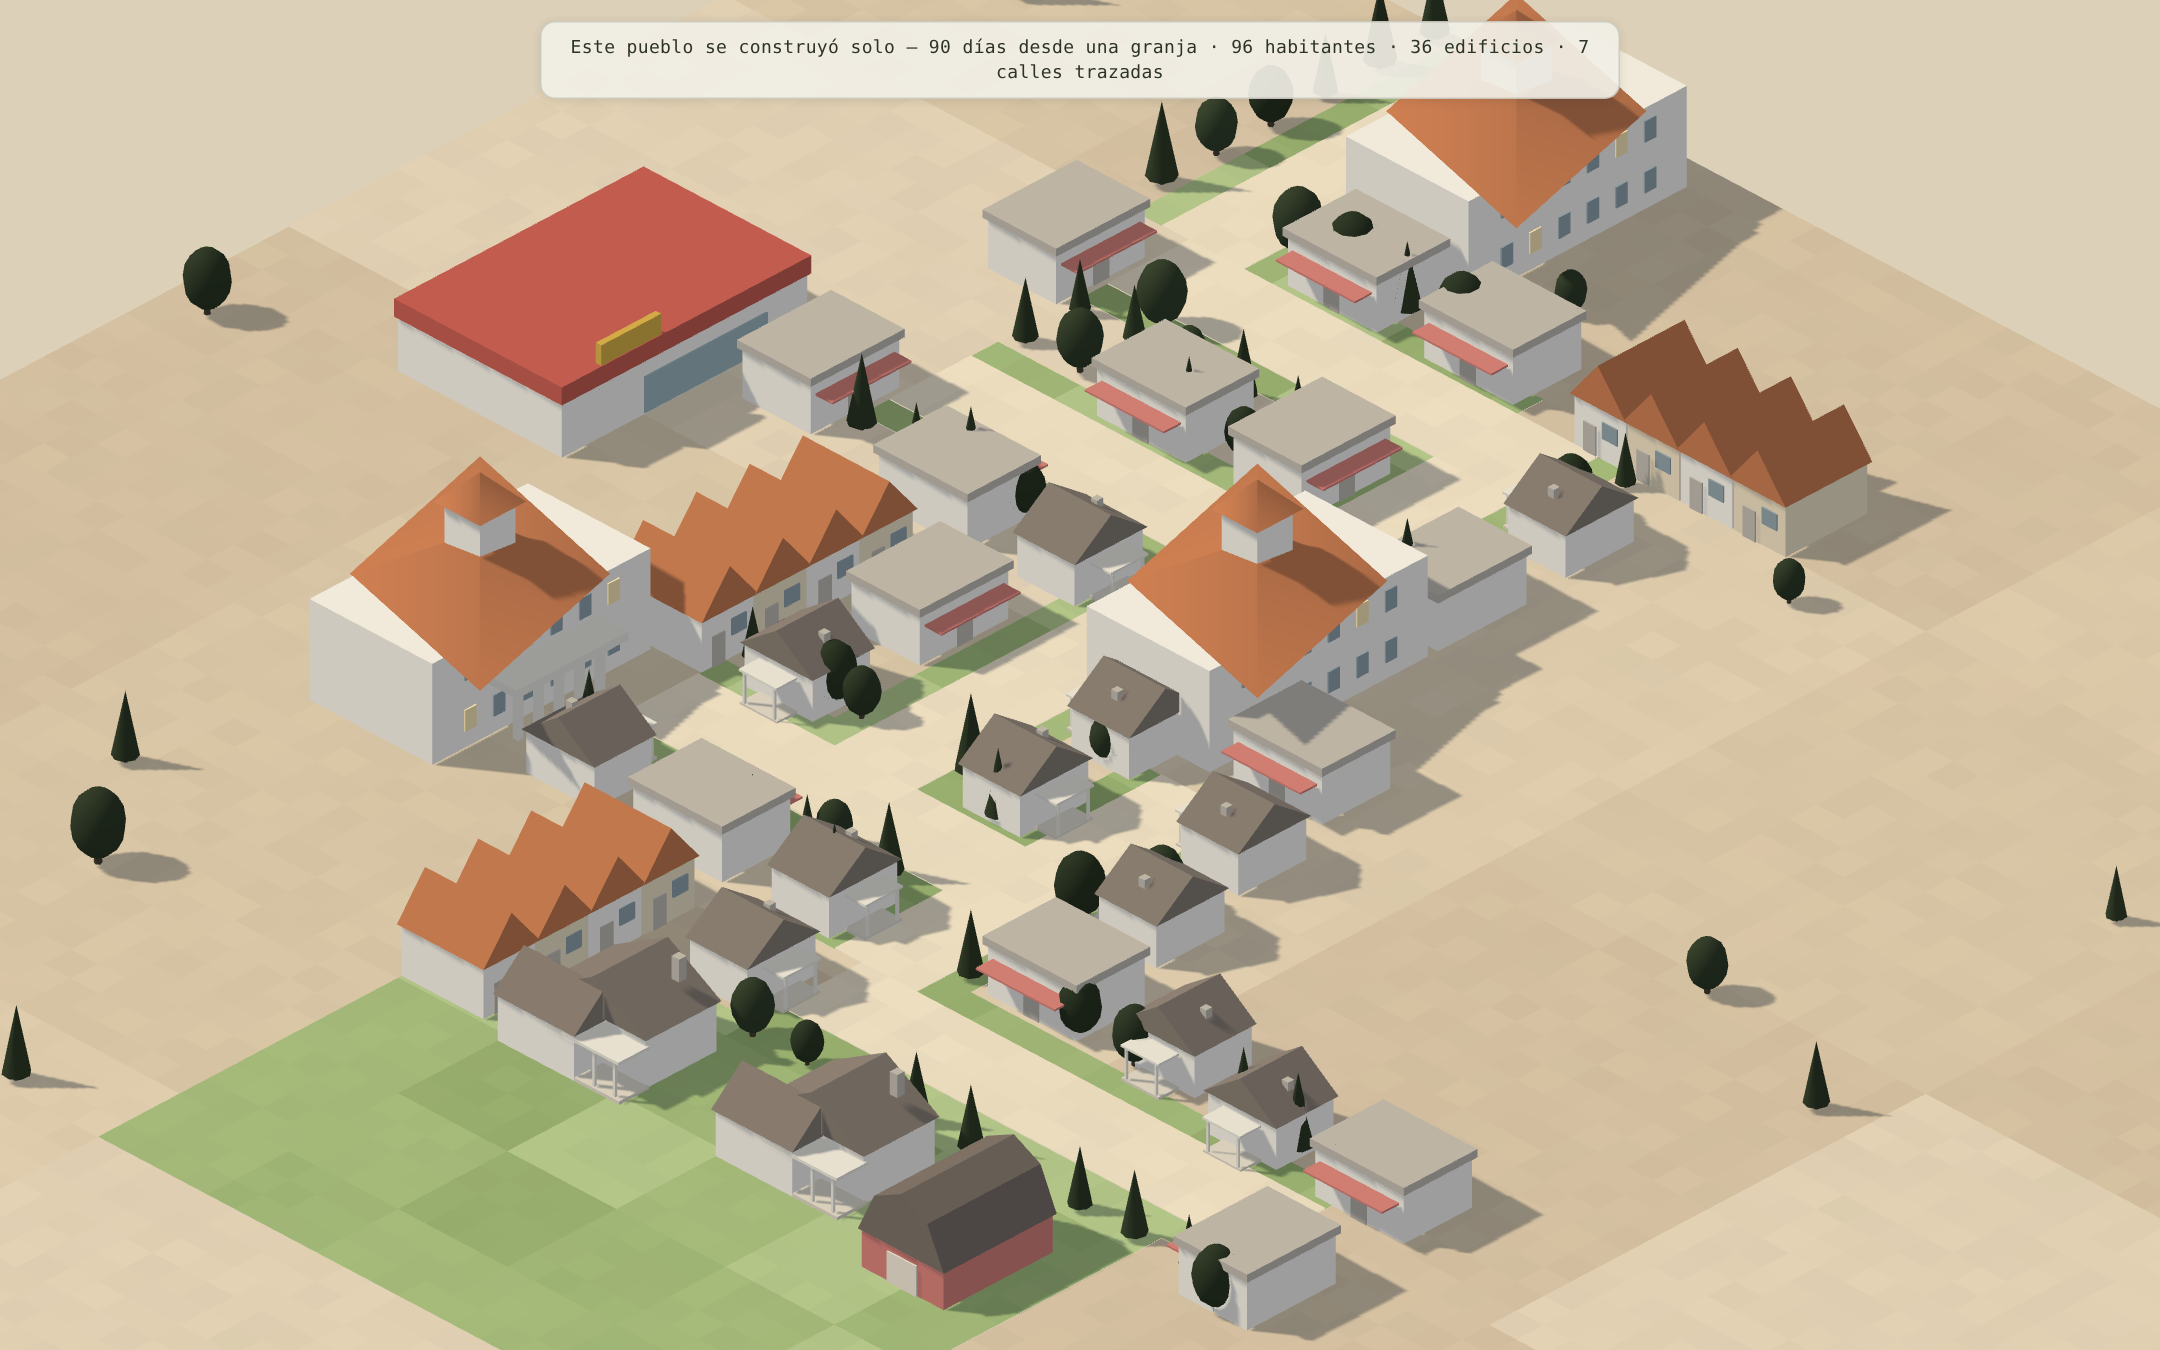
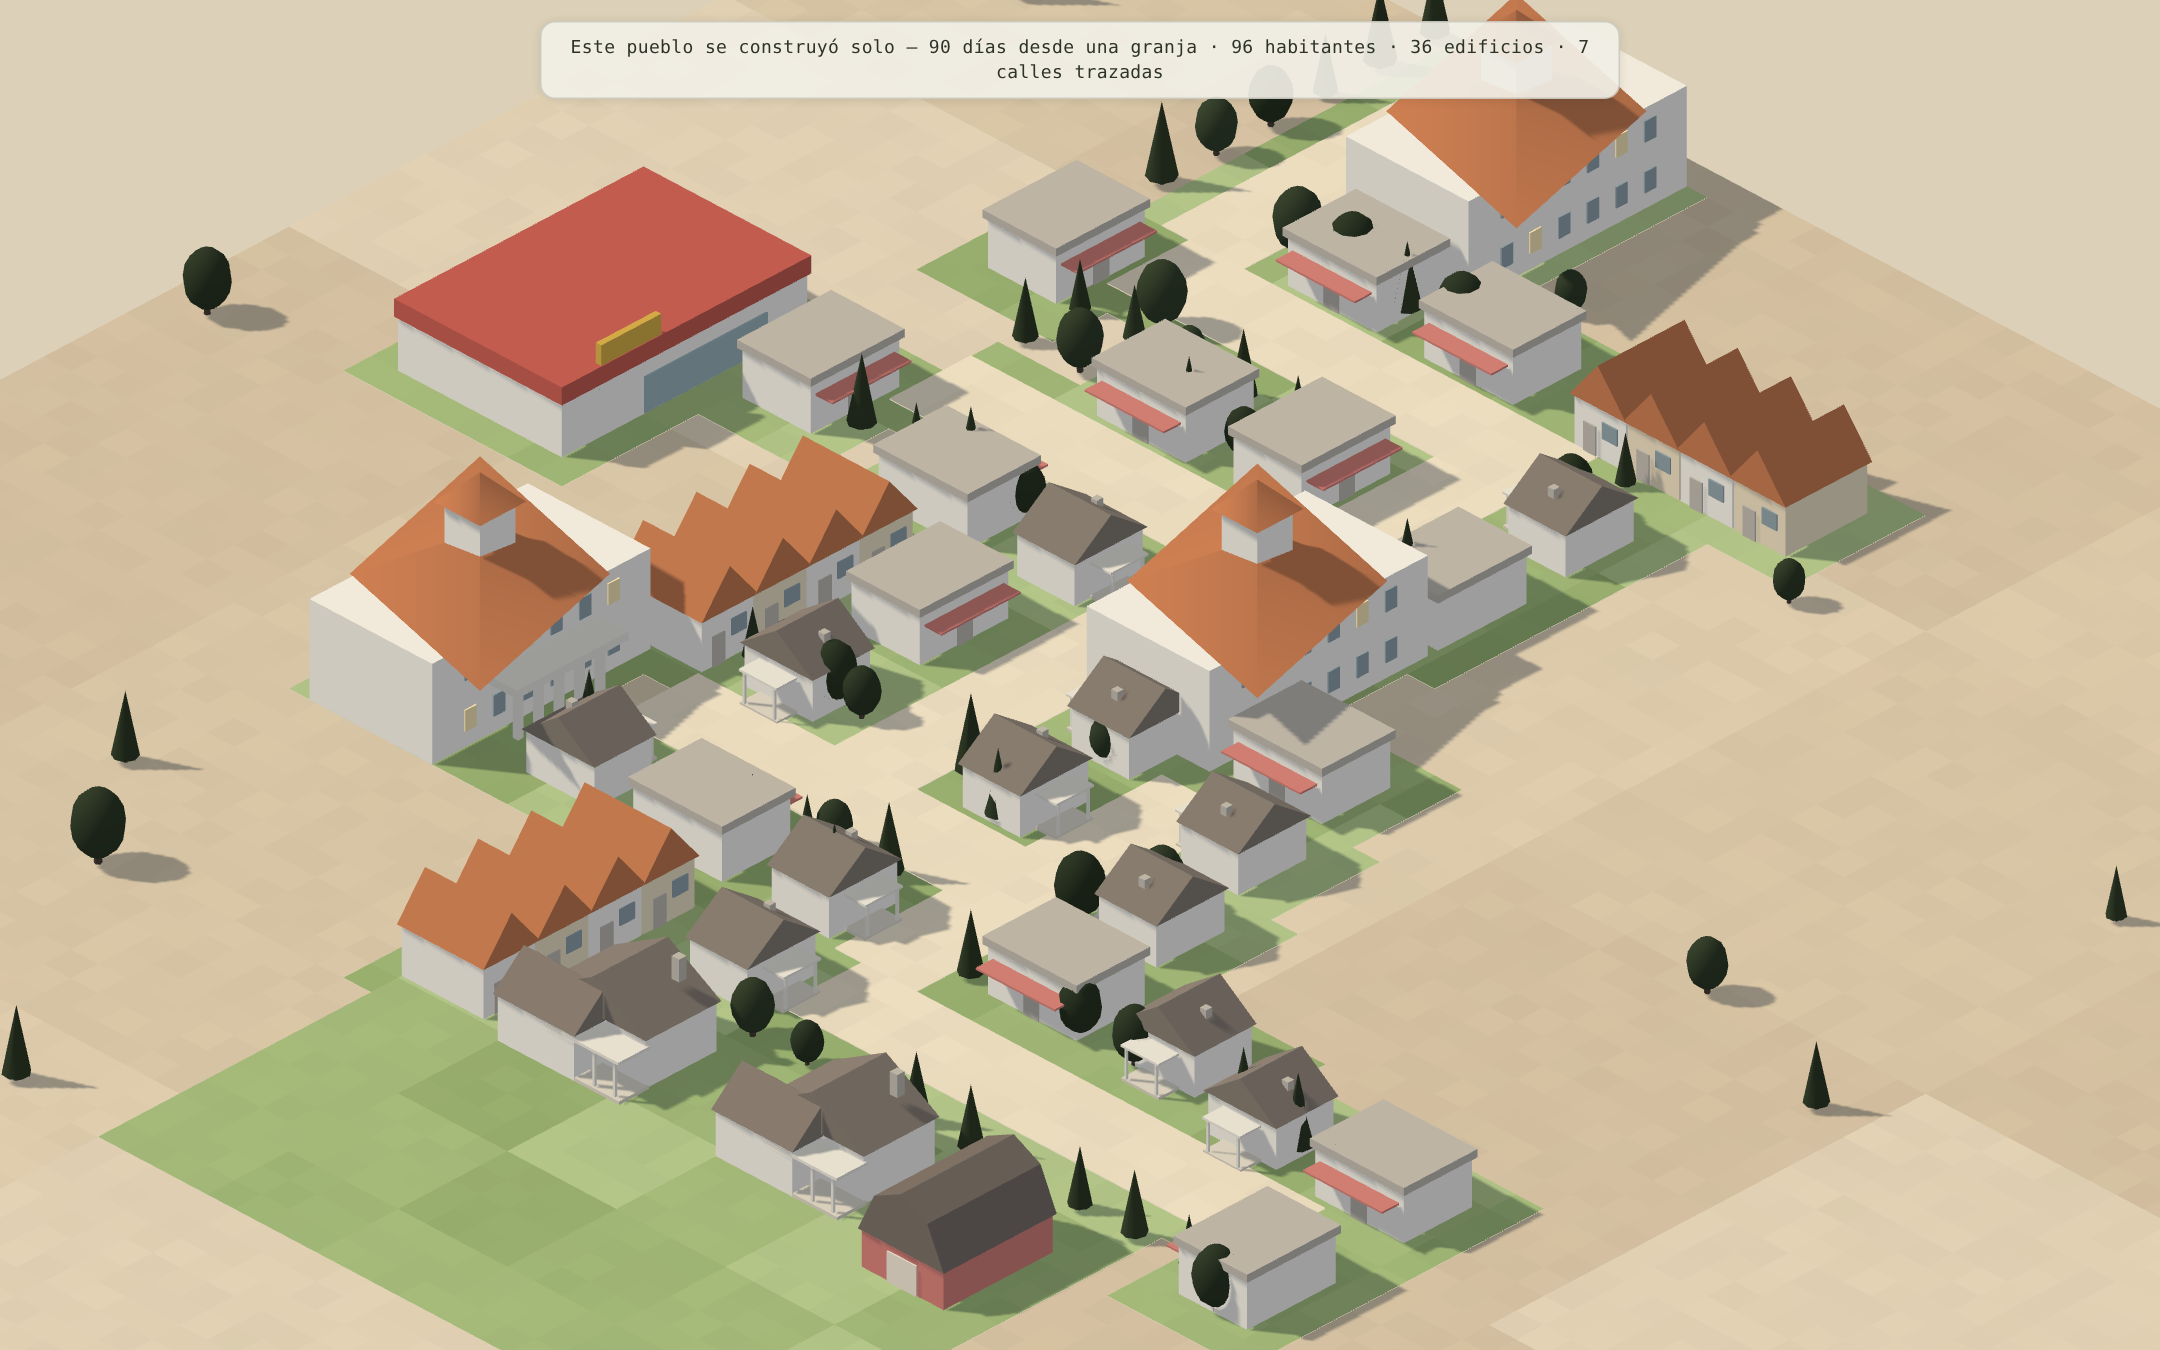
render: jardín de hierba bajo cada edificio del pueblo autónomo (solo visual)
El crecimiento autónomo asentaba los edificios sobre tierra beige (campo),
mientras el pueblo sembrado a mano vive sobre hierba: incoherente y menos
frondoso. Ahora cada edificio nuevo pinta un jardín de hierba bajo su huella
y en un anillo de 1 celda (paintYard en growth.ts) — el pueblo se ve verde y
habitado, coherente con la estética a mano.

CLAVE — el jardín es SOLO VISUAL, no toca el grid de la simulación:
- Pintar hierba en el grid de la sim bajaría el walkCost del terreno (grass 1.6
  vs field 2.4) → desviaría el pathfinding → cambiaría toda la trayectoria de la
  sim (rompía 2 tests de epidemia al filo de percolación).
- Se pinta en el grid de RENDER al hornear la obra (construction.finish) y, en
  la vitrina ?scene=grown, en sim.grid DESPUÉS de terminar la sim (post-hoc,
  cosmético). El grid de la sim del worker se queda sobre 'field': pathfinding
  y trayectoria idénticos.

- docs/hero.png actualizado al pueblo frondoso.
- tsc limpio; 315 tests verdes (grid 33 + sim 282): trayectoria intacta.

Claude-Session: https://claude.ai/code/session_01Evz71rJ6WsWhoXUHHpCnpS

diff --git a/src/world/growth.ts b/src/world/growth.ts
@@ -327,6 +327,39 @@ export function extendRoad(
   return laid;
 }
 
+/**
+ * Pinta un JARDÍN de hierba bajo el edificio y en un anillo de 1 celda alrededor
+ * (el "retranqueo" habitado), para que el pueblo autónomo se asiente sobre verde
+ * como el pueblo sembrado a mano — frondoso y vivido, no plantado sobre tierra
+ * beige. Respeta vías, agua y edificios ajenos. Determinista (sin RNG): no altera
+ * la trayectoria del crecimiento. Devuelve las celdas pintadas (para refrescar el
+ * render). `fw`/`fd` = footprint YA rotado.
+ */
+export function paintYard(
+  grid: Grid,
+  anchorX: number,
+  anchorZ: number,
+  fw: number,
+  fd: number,
+): Array<[number, number]> {
+  const painted: Array<[number, number]> = [];
+  for (let x = anchorX - 1; x <= anchorX + fw; x++) {
+    for (let z = anchorZ - 1; z <= anchorZ + fd; z++) {
+      const c = grid.get(x, z);
+      if (!c) continue;
+      if (c.terrain === 'road' || c.terrain === 'path' || c.terrain === 'water') continue;
+      const inFootprint = x >= anchorX && x < anchorX + fw && z >= anchorZ && z < anchorZ + fd;
+      // En el anillo, no pisar el jardín de un edificio ajeno (deja su borde).
+      if (c.building && !inFootprint) continue;
+      if (c.terrain !== 'grass') {
+        grid.setTerrain(x, z, 'grass');
+        painted.push([x, z]);
+      }
+    }
+  }
+  return painted;
+}
+
 /** canPlace + margen de respeto: 1 celda libre alrededor (retranqueo/paso). */
 function clearForGrowth(grid: Grid, w: number, d: number, ax: number, az: number, rot: Rot): boolean {
   if (!grid.canPlace(w, d, ax, az, rot)) return false;

diff --git a/src/world/render/construction.ts b/src/world/render/construction.ts
@@ -14,8 +14,9 @@
  */
 import * as THREE from 'three';
 import { PALETTE } from '../../palette';
-import { CELL_SIZE, rotatedFootprint, Rot } from '../grid';
+import { CELL_SIZE, CHUNK, rotatedFootprint, Rot, Grid } from '../grid';
 import { catalogItem } from '../catalog';
+import { paintYard } from '../growth';
 import type { WorldView } from './worldView';
 
 const RISE_DUR = 0.9; // s hasta que el edificio alcanza su altura
@@ -44,7 +45,7 @@ export class ConstructionView {
   readonly root = new THREE.Group();
   private sites: Site[] = [];
 
-  constructor(private grid: { placeBuilding: (id: string, w: number, d: number, cx: number, cz: number, rot: Rot) => boolean }, private world: WorldView) {}
+  constructor(private grid: Grid, private world: WorldView) {}
 
   /** Arranca la obra de un edificio recién demandado por la ciudad. */
   spawn(id: string, cx: number, cz: number, rot: Rot): void {
@@ -145,7 +146,17 @@ export class ConstructionView {
     if (it) {
       // Réplica en el grid de render → el chunk dibuja el edificio definitivo.
       this.grid.placeBuilding(s.id, it.w, it.d, s.cx, s.cz, s.rot);
-      this.world.refreshChunkAt(s.cx, s.cz);
+      // Jardín de hierba bajo/alrededor (mismo verde que en la sim): refresca
+      // los chunks tocados por el anillo (puede cruzar la frontera de chunk).
+      const [fw, fd] = rotatedFootprint(it.w, it.d, s.rot);
+      const painted = paintYard(this.grid, s.cx, s.cz, fw, fd);
+      const seen = new Set<string>();
+      for (const [cx, cz] of [...painted, [s.cx, s.cz] as [number, number]]) {
+        const k = `${Math.floor(cx / CHUNK)},${Math.floor(cz / CHUNK)}`;
+        if (seen.has(k)) continue;
+        seen.add(k);
+        this.world.refreshChunkAt(cx, cz);
+      }
     }
     this.root.remove(s.cont);
     s.cont.traverse((o) => {

diff --git a/src/main.ts b/src/main.ts
@@ -10,9 +10,9 @@ import { GameLoop } from './core/loop';
 import { DebugHud } from './core/debugHud';
 import { createWorldView } from './neighborhood';
 import { seedWorld, seedFarm } from './world/seed';
-import { extendRoad, townCenter } from './world/growth';
+import { extendRoad, townCenter, paintYard } from './world/growth';
 import { Simulation } from './sim/simulation';
-import { CELL_SIZE } from './world/grid';
+import { CELL_SIZE, rotatedFootprint } from './world/grid';
 import { createRng } from './rng';
 import { buildShowcase } from './showcase';
 import { SimClient, AgentView } from './sim/client';
@@ -104,6 +104,14 @@ if (sceneName === 'buildings') {
     const growDays = 90;
     const sim = new Simulation(seedFarm(worldSeed), worldSeed);
     for (let i = 0; i < growDays * Math.round(DAY_GAME_SECONDS / TICK_GAME_S); i++) sim.step();
+    // Jardín de hierba bajo cada edificio, SOLO para el render (post-sim: la
+    // simulación ya terminó, así que pintar hierba no altera nada — es cosmético).
+    for (const b of sim.index.buildings) {
+      if (b.data.role === 'nature') continue;
+      const rot = sim.grid.get(b.ax, b.az)?.building?.rot ?? 0;
+      const [fw, fd] = rotatedFootprint(b.data.w, b.data.d, rot);
+      paintYard(sim.grid, b.ax, b.az, fw, fd);
+    }
     worldView = createWorldView(sim.grid);
     stage.scene.add(worldView.root);
     const anchors = sim.index.buildings.filter((b) => b.data.role !== 'nature').map((b) => [b.ax, b.az] as [number, number]);

diff --git a/src/sim/simulation.ts b/src/sim/simulation.ts
@@ -713,6 +713,11 @@ export class Simulation {
   private applyGrowth(p: GrowthPlacement): void {
     const it = catalogData(p.id);
     if (!it || !this.grid.placeBuilding(p.id, it.w, it.d, p.cx, p.cz, p.rot)) return;
+    // NOTA: el JARDÍN de hierda es puramente VISUAL y se pinta en el grid de
+    // RENDER (construction.ts) — NO aquí. Pintarlo en el grid de la sim bajaría
+    // el coste de paso del terreno (grass 1.6 vs field 2.4 en pathfinding) y
+    // desviaría las rutas → cambiaría TODA la trayectoria de la sim. El sim se
+    // queda sobre 'field'; el verde es cosa del render.
     this.index.rebuild();
     this.economy.rebuild(this.index, this.citizens);
     if (it.role === 'residential') {

diff --git a/ROADMAP.md b/ROADMAP.md
@@ -450,3 +450,13 @@ aprieta, T3.8-T3.10 y la Fase 4 valen más que cualquier cosa de la Fase 5.
   · **Robustez del sector VERIFICADA** (sonda headless, 8 combinaciones
     escena×semilla, 150 días): sin excepciones, población acotada (78-89, sin
     explosión ni colapso), vías extendidas 0-8 (sin runaway).
+  · **Anti-ribbon (compacidad 2D)** — `STREET_EVERY` calles transversales
+    proactivas (ver T4.4). Aspect del bounding box 3.2→1.1.
+  · **Jardín de hierba bajo cada edificio (frondosidad, §4)** — `paintYard` en
+    `growth.ts`. TRAMPA IMPORTANTE cazada: pintar hierba en el grid de la SIM
+    baja el `walkCost` del terreno (grass 1.6 vs field 2.4 en geometry.ts) →
+    desvía el pathfinding → cambia TODA la trayectoria (rompía 2 tests de
+    epidemia al filo de percolación). Solución: el jardín es SOLO visual — se
+    pinta en el grid de RENDER (`construction.finish`) y, en `?scene=grown`,
+    en `sim.grid` DESPUÉS de terminar la sim (post-hoc, cosmético). El grid de
+    la sim del worker se queda sobre 'field' → pathfinding y tests intactos.